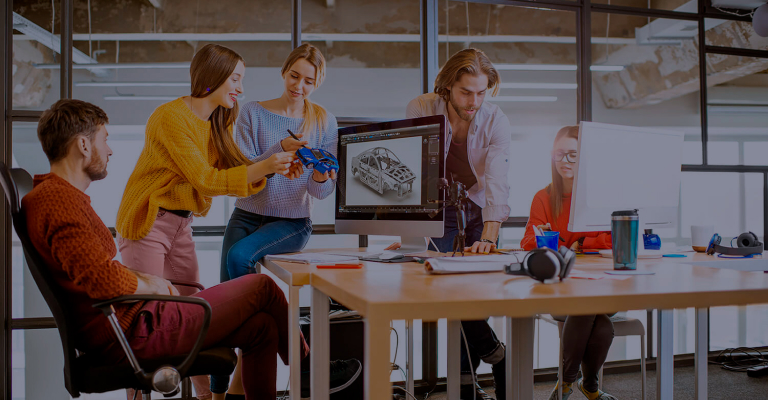
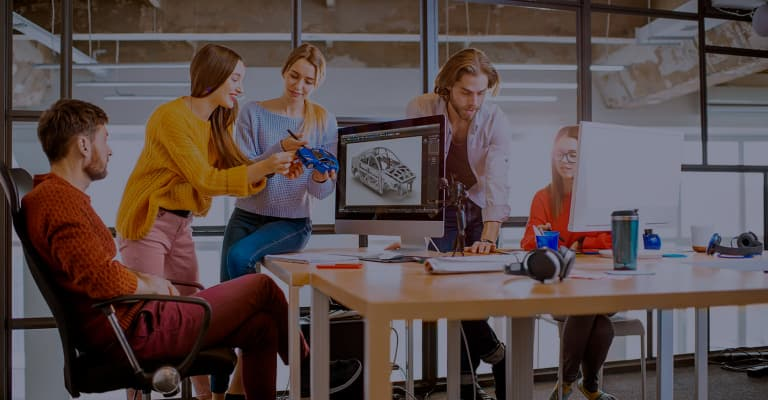
add background

diff --git a/css/main.min.css b/css/main.min.css
@@ -1,1 +1,1 @@
-body{background-color:#fff;color:#212121;font-family:Roboto,sans-serif;font-size:14px;letter-spacing:.03em}a{text-decoration:none;margin:0px}h1,h2,h3,p,img{margin:0;padding:0}img{display:block;height:auto;max-width:100%}@media screen and (min-width: 480px){.container{width:480px}}@media screen and (min-width: 768px){.container{width:768px}}@media screen and (min-width: 1200px){.container{width:1200px;margin:0 auto;padding:0 15px}}.section{padding:94px 0}@media screen and (min-width: 480px){.section{padding:60px 0}}.list{padding:0;margin:0;list-style:none}.title{font-weight:700;font-size:36px;line-height:1.16;text-align:center;margin-bottom:50px}@media screen and (min-width: 480px){.title{font-size:28px;line-height:1.18;margin-bottom:30px}}.visually-hidden{position:absolute;width:1px;height:1px;margin:-1px;padding:0;overflow:hidden;border:0;clip:rect(0 0 0 0)}.header{border-bottom:1px solid #ececec}.header__menu{display:flex;align-items:center;justify-content:space-between;height:80px}.header__nav-item{margin-right:50px}.header__nav-item:last-child{margin-right:0}.header__nav-link{position:relative;display:block;text-decoration:none;color:currentColor;padding:32px 0;transition:color 250ms cubic-bezier(0.4, 0, 0.2, 1);color:#212121;font-weight:500;line-height:1.14}.header__nav-link:hover,.header__nav-link:focus{color:#2196f3;transition:color 250ms cubic-bezier(0.4, 0, 0.2, 1)}.header__nav-link.current{color:#2196f3}.header__nav-link .current::after{content:"";position:absolute;bottom:0;left:0;width:100%;height:4px;background-color:#2196f3;border-radius:2px;opacity:1}@media screen and (min-width: 480px){.header__nav .header__nav{display:none}.header__nav-item{display:none}}@media screen and (min-width: 480px)and (min-width: 768px){.header__nav .header__nav{display:flex;margin-left:93px}.header__nav-item{display:flex}}.header__address-item{margin-right:30px}.header__address-item+.item{margin:0}.header__address-nav{color:#757575;display:flex;align-items:center;font-weight:500;line-height:1.14;transition:color 250ms cubic-bezier(0.4, 0, 0.2, 1)}.header__address-nav:hover,.header__address-nav:focus{color:#2196f3;fill:#2196f3;transition:color 250ms cubic-bezier(0.4, 0, 0.2, 1)}@media screen and (min-width: 480px){.header__address .header__address{display:none}.header__address-item{display:none}}@media screen and (min-width: 768px){.header__address .header__address{display:block;margin-right:0}.header__address-item{display:block;margin-right:0;margin-bottom:10px}.header__address-item:last-child{margin-bottom:0}}@media screen and (min-width: 1200px){.header__address .header__address{display:flex;align-items:center;justify-content:center;margin-left:auto;flex-wrap:nowrap}}.header__item-icon{margin-right:10px;fill:currentColor}.header__item-icon:hover,.header__item-icon:focus{color:#2196f3;fill:#2196f3}.header__item-icon--mail{width:16px;height:12px}.header__item-icon--phone{width:10px;height:16px}.logo{font-family:Raleway,sans-serif;font-weight:700;font-size:26px;line-height:1.19;color:#000}.logo--accent{color:#2196f3}@media screen and (min-width: 480px){.logo .logo{font-size:24px;text-align:center}}@media screen and (min-width: 768px){.logo .logo{text-align:start}.logo--accent{text-align:start}}@media screen and (min-width: 1200px){.logo .logo{text-align:start}}.hero{background-color:#2f303a;text-align:center;padding:200px 0;background-image:linear-gradient(rgba(47, 48, 58, 0.4), rgba(47, 48, 58, 0.4)),url(../images/background-img.jpg);max-width:1600px;margin:0 auto}.hero__button{display:inline-block;background-color:#2196f3;box-shadow:0px 4px 4px rgba(0,0,0,.15);border-radius:4px;font-weight:700;font-size:16px;line-height:1.87;text-align:center;color:#fff;cursor:pointer;letter-spacing:.06em;padding:10px 32px;margin-top:40px;border:none}@media screen and (min-width: 480px){.hero__title{width:100%;font-size:26px;line-height:1.62;padding:0 60px}.hero__button{padding:10px 24px}}@media screen and (min-width: 768px){.hero__title{width:360px;padding:0}.hero .hero{background-image:url("../../images/tablet1x.jpg")}}@media screen and (min-width: 1200px){.hero__title{font-weight:900;font-size:44px;line-height:1.36;letter-spacing:.06em;text-transform:uppercase;color:#fff;width:696px;margin:0 auto}}.benefits{padding:0;margin:0}.benefits__background{width:100%;height:120px;background-color:#f5f4fa;border-radius:4px;display:flex;justify-content:center;align-items:center;margin-bottom:30px}.benefits__sprite{width:70px;height:70px;display:flex;justify-content:center;align-items:center}.benefits__subheader{text-align:left;font-size:inherit;font-weight:700;line-height:1.14;text-transform:uppercase;margin-bottom:10px}.benefits__description{color:#757575;line-height:1.71}@media screen and (min-width: 480px){.benefits__flex{display:block;margin:0;padding-top:60px}.benefits__subheader{text-align:center;margin:0 auto;margin-bottom:10px}.benefits__thesis{width:100%;margin-bottom:30px;margin:0 auto}.benefits__description{margin-bottom:30px}}@media screen and (min-width: 768px){.benefits__flex{display:flex;flex-wrap:wrap;padding-top:60px}.benefits__thesis{width:calc((100% - 30px)/2)}.benefits__thesis:not(:nth-last-child(-n+2)){margin-bottom:30px}.benefits__thesis:not(:nth-child(2n)){margin-right:30px}.benefits__subheader{text-align:start}}@media screen and (min-width: 1200px){.benefits__flex{display:flex;justify-content:space-between;padding-top:60px;padding-bottom:0;flex-wrap:nowrap}.benefits__thesis{width:100%;margin-bottom:0}.benefits__thesis:nth-child(2n){margin-right:30px}.benefits__description{margin-bottom:0}}@media screen and (min-width: 480px){.about-us{display:none}}@media screen and (min-width: 1200px){.about-us{display:block}}.pictures{display:flex;justify-content:space-between}.pictures .item:not(:last-child){margin-right:30px}.pictures__group{position:relative}.pictures__gadget{display:block;max-width:100%;height:auto}.pictures__descr{position:absolute;bottom:0;font-weight:700;font-size:inherit;line-height:1.14;text-align:center;letter-spacing:.03em;text-transform:uppercase;color:#fff;background-color:rgba(47,48,58,.8);height:70px;width:370px;display:flex;justify-content:center;align-items:center}.team{background-color:#f5f4fa}.team__cards{display:flex;justify-content:space-between}.team__card{width:100%;background-color:#fff;box-shadow:0px 1px 3px rgba(0,0,0,.12),0px 1px 1px rgba(0,0,0,.14),0px 2px 1px rgba(0,0,0,.2);border-radius:0px 0px 4px 4px}.team__card:hover{filter:drop-shadow(0px 4px 4px rgba(0, 0, 0, 0.25));transition:filter 250ms cubic-bezier(0.4, 0, 0.2, 1)}.team__info{padding:30px 0}.team__title{font-weight:500;font-size:16px;line-height:1.19;text-align:center;margin-bottom:10px}.team__job-title{font-size:16px;line-height:1.19;text-align:center;color:#757575;margin-bottom:16px}@media screen and (min-width: 480px){.team__cards{display:block}.team__card{margin-bottom:30px}}@media screen and (min-width: 768px){.team__cards{display:flex;flex-wrap:wrap}.team__card{width:calc((100% - 30px)/2)}.team__card:not(:nth-last-child(-n+2)){margin-bottom:30px}.team__card:not(:nth-child(2n)){margin-right:30px}}@media screen and (min-width: 1200px){.team__cards{display:flex;flex-wrap:nowrap}.team__card:nth-child(2n){margin-right:30px}}.social__links{display:flex;justify-content:center;margin:0 auto;padding:0}.social__links .link{display:flex;align-items:center;justify-content:center;width:44px;height:44px;border-radius:50%;background-size:20px;background-repeat:no-repeat;background-position:center}.social__links>li{margin-right:10px}.social__links>li:last-child{margin-right:0px}.social__links .link:hover,.social__links .link:focus{background-color:#2196f3}.social__link-icon{display:inline-block;fill:#afb1b8;width:20px;height:20px;transition:fill 250ms cubic-bezier(0.4, 0, 0.2, 1)}.social__link-icon>.social__link-icon,.social__link-icon>.social__link-icon{fill:#fff}.partners{margin:0;padding:0;display:flex;justify-content:center;flex-wrap:wrap}.partners__image{display:block;margin:0}.partners__link{display:flex;justify-content:center;align-items:center;width:170px;height:92px;border:1px solid #afb1b8;border-radius:4px;transition:border 250ms cubic-bezier(0.4, 0, 0.2, 1);margin-right:0px;padding:0}.partners__link:hover,.partners__link:focus{border:1px solid #2196f3;fill:#2196f3}.partners__link:hover>.partners__logo,.partners__link:focus>.partners__logo{fill:#2196f3}.partners__logo{display:block;fill:#afb1b8;transition:fill 250ms cubic-bezier(0.4, 0, 0.2, 1)}@media screen and (min-width: 480px){.partners__image{width:calc((100% - 30px)/2)}.partners__image:not(:nth-last-child(-n+2)){margin-bottom:30px}.partners__image:nth-child(2n+1){margin-right:30px}}@media screen and (min-width: 768px){.partners__image{width:calc((100% - 60px)/3)}.partners__image:not(:nth-last-child(-n+3)){margin-bottom:30px}.partners__image:not(:nth-child(3n)){margin-right:30px}}@media screen and (min-width: 1200px){.partners__image{width:calc((100% - 150px)/6)}.partners__image:not(:last-child){margin-right:30px}}.footer{background-color:#2f303a;padding:60px 0}.footer__logo{color:#fff}.footer__contacts{margin-top:20px}.footer__contacts-block{margin-right:70px}.footer__form{display:flex;margin-top:20px}.footer__join-block{margin-right:93px}.footer__join-block-title{font-weight:700;line-height:1.14;text-transform:uppercase;letter-spacing:inherit;text-align:left;color:#fff;margin-bottom:0px}@media screen and (min-width: 480px){.footer__flex{display:block;text-align:center}.footer__contacts-block{margin-right:0}.footer__join-block{text-align:center;margin-top:60px;margin-right:0}.footer__join-block-title{text-align:center}.footer__subscribe-block{margin-top:60px}.footer__form{display:block}}@media screen and (min-width: 768px){.footer__tablet{display:flex;align-items:baseline;justify-content:space-around}}@media screen and (min-width: 1200px){.footer__flex{display:flex;align-items:baseline;justify-content:space-between}.footer__tablet{display:flex;justify-content:space-between}.footer__subscribe-block{margin-top:0px}.footer__contacts-block{margin-right:70px}.footer__join-block-title{text-align:start}.footer__form{display:flex;align-items:flex-start;margin-top:20px}}.footer__address{font-style:normal;color:#fff;margin-bottom:9px}.footer__address:hover,.footer__address:focus{color:#2196f3;transition:color 250ms cubic-bezier(0.4, 0, 0.2, 1)}.footer__address-contacts{margin-bottom:9px}.footer__address-contacts--link{color:rgba(255,255,255,.6);font-style:normal;text-decoration:none;line-height:1.71}.footer__address-contacts--link:hover,.footer__address-contacts--link:focus{color:#2196f3;transition:color 250ms cubic-bezier(0.4, 0, 0.2, 1)}@media screen and (min-width: 1200px){.footer__address-contacts{text-align:start}}.footer__links{margin-top:20px}.footer__links .link{background-color:rgba(255,255,255,.1);transition:background-color 250ms cubic-bezier(0.4, 0, 0.2, 1)}.footer__links .social__link-icon{fill:#fff}.footer__input{box-sizing:border-box;width:358px;height:50px;border:1px solid rgba(255,255,255,.3);filter:drop-shadow(0px 4px 4px rgba(0, 0, 0, 0.15));border-radius:4px;background-color:inherit;margin-right:12px;padding:15px;color:#fff}.footer__input:active,.footer__input:focus{border:1px solid #2196f3;outline:none}@media screen and (min-width: 480px){.footer__input{width:100%;margin-bottom:20px}}@media screen and (min-width: 768px){.footer__input{width:450px}}@media screen and (min-width: 1200px){.footer__input{width:358px}}.footer__btn{background-color:#2196f3;font-weight:700;font-size:16px;line-height:1.88;letter-spacing:.06em;color:#fff;padding:10px 28px;box-shadow:0px 4px 4px rgba(0,0,0,.15);border-radius:4px;border:none;min-width:200px;display:flex;align-items:center}.footer__btn-icon{margin-left:10px;width:24px;height:24px}@media screen and (min-width: 480px){.footer__btn .footer__btn{display:block;margin:0 auto}.footer__btn-wrap{display:flex;justify-content:center;align-items:center}}.button__list{display:flex;justify-content:center;margin-bottom:50px}.button__list .item:not(:last-child){margin-right:8px}.button__menu{font-family:inherit;font-weight:500;font-size:16px;line-height:1.63;text-align:center;color:#212121;background-color:#f5f4fa;cursor:pointer;letter-spacing:.03em;border:none;padding:6px 22px;border-radius:4px}.button__menu:hover,.button__menu:focus{background-color:#2196f3;color:#fff;box-shadow:0px 3px 1px rgba(0,0,0,.1),0px 1px 2px rgba(0,0,0,.08),0px 2px 2px rgba(0,0,0,.12);transition:background-color 250ms cubic-bezier(0.4, 0, 0.2, 1);transition:color 250ms cubic-bezier(0.4, 0, 0.2, 1);transition:box-shadow 250ms cubic-bezier(0.4, 0, 0.2, 1)}.card{display:flex;flex-wrap:wrap;justify-content:space-between}.card__header{font-weight:700;font-size:18px;line-height:2;color:#212121;letter-spacing:.06em;margin-bottom:4px}.card__descr{font-size:16px;line-height:1.88;color:#757575;letter-spacing:.03em}.project__card{width:370px;margin-bottom:30px}.project__card:hover,.project__card:focus,.project__card:active{box-shadow:0px 1px 1px rgba(0,0,0,.12),0px 4px 4px rgba(0,0,0,.06),1px 4px 6px rgba(0,0,0,.16)}.project__card:nth-last-child(-n+3){margin-bottom:0}.project__card-thumb{position:relative;display:flex;overflow:hidden}.project__card-overlay{position:absolute;background-color:rgba(33,150,243,.9);width:100%;height:100%;transform:translateY(100%);top:0;left:0;padding:63px 24px;transition:transform 250ms cubic-bezier(0.4, 0, 0.2, 1)}.project__card-overlay--text{font-size:18px;line-height:1.55;letter-spacing:.03em;color:#fff;margin-right:0px;opacity:0}.project__link{display:block}.project__link:hover,.project__link:focus,.project__link:active{box-shadow:0px 1px 1px rgba(0,0,0,.12),0px 4px 4px rgba(0,0,0,.06),1px 4px 6px rgba(0,0,0,.16);transition:box-shadow 250ms cubic-bezier(0.4, 0, 0.2, 1)}.project__link:hover .project__card-overlay,.project__link:focus .project__card-overlay,.project__link:active .project__card-overlay{transform:translateY(0)}.project__link:hover .project__card-overlay--text,.project__link:focus .project__card-overlay--text,.project__link:active .project__card-overlay--text{transform:translateX(0);opacity:1}.project__info{padding:20px 24px;border-left:1px solid #eee;border-right:1px solid #eee;border-bottom:1px solid #eee}.backdrop{position:fixed;top:0;left:0;width:100%;height:100%;background-color:rgba(0,0,0,.2);transition-duration:250ms;transition-timing-function:cubic-bezier(0.4, 0, 0.2, 1)}.backdrop .is-hidden{opacity:0;pointer-events:none;visibility:hidden}.modal{position:relative;z-index:999;top:50%;left:50%;transform:translate(-50%, -50%);min-height:581px;min-width:528px;background-color:#fff;box-shadow:0px 1px 3px rgba(0,0,0,.12),0px 1px 1px rgba(0,0,0,.14),0px 2px 1px rgba(0,0,0,.2);border-radius:4px}.modal__button{position:absolute;top:8px;right:8px;width:30px;height:30px;border-radius:50%;display:flex;justify-content:center;align-items:center;outline:none;border:none;cursor:pointer;background:#fff;border:1px solid rgba(0,0,0,.1)}.modal__accept-terms{margin-top:20px;text-align:center}.modal__send-button{width:200px;height:50px;padding:10px 52px;background-color:#2196f3;border:none;box-shadow:0px 4px 4px rgba(0,0,0,.15);border-radius:4px;font-weight:700;font-size:16px;line-height:1.88;letter-spacing:.06em;color:#fff;margin:0 auto;margin-top:30px;display:flex;justify-content:center;align-items:center}@media screen and (min-width: 480px){.modal .modal{min-width:450px}}.modal__close-btn{border:none;color:#000}.modal__close-btn:hover,.modal__close-btn:focus{fill:#2196f3}.modal__form{padding:40px}.modal__form-header{font-weight:700;font-size:20px;line-height:1.15;text-align:center;letter-spacing:inherit;color:#212121}.modal__form-field{display:block;margin-top:10px}.modal__form:focus-within>.modal__form-input{background-color:blue}.modal__form-field:placeholder-shown+.modal__form-input{transform:translateY(-50px)}.modal__form-textarea{display:block;width:100%;height:120px;padding:12px 16px;font-size:12px;line-height:1.16;letter-spacing:.01em;resize:none;border:1px solid rgba(33,33,33,.2);border-radius:4px;outline:none;margin-top:4px}@media screen and (min-width: 480px){.modal__form .modal__form{width:370px}}.modal__form-label{line-height:1.14;letter-spacing:.01em;color:#757575;outline:none;top:50%;left:40px}.modal__form-label:hover,.modal__form-label:active,.modal__form-label:focus{border-color:#2196f3}.modal__form-image{position:absolute;width:18px;height:18px;top:65%;left:12px;transform:translateY(-50%)}.modal__form-image:hover,.modal__form-image:focus,.modal__form-image:active{fill:#2196f3}.modal__form-input{width:100%;height:40px;border:1px solid rgba(33,33,33,.2);border-radius:4px;outline:none;margin-top:4px;padding-left:35px}.modal__form-input:hover,.modal__form-input:active,.modal__form-input:focus{border-color:#2196f3}.modal__form-input:hover~.modal__form-image,.modal__form-input:active~.modal__form-image,.modal__form-input:focus~.modal__form-image{fill:#2196f3}.modal__form-input-name{font-size:12px;line-height:1.16;letter-spacing:.01em;color:#757575;margin-top:10px;margin-bottom:4px}.checkbox:checked+.checkbox__icon{border-color:#2196f3;background-color:#2196f3;background-image:url(../images/icon-check.svg)}.checkbox__icon{display:inline-block;width:16px;height:15px;border:2px solid #212121;box-shadow:0px 4px 4px rgba(0,0,0,.25);border-radius:2px}.checkbox__accept{line-height:24px;letter-spacing:.03em;color:#757575}.checkbox__link{text-decoration-line:underline;color:#2196f3}.menu-toggle{display:inline-flex;border:none;background-color:rgba(0,0,0,0)}.menu-toggle .icon-cross{display:none}.menu-toggle.is-open .icon-cross{display:block}.menu-toggle.is-open .icon-menu{display:none}@media screen and (min-width: 768px){.menu-toggle{display:none}}/*# sourceMappingURL=main.min.css.map */
+body{background-color:#fff;color:#212121;font-family:Roboto,sans-serif;font-size:14px;letter-spacing:.03em}a{text-decoration:none;margin:0px}h1,h2,h3,p,img{margin:0;padding:0}img{display:block;height:auto;max-width:100%}@media screen and (min-width: 480px){.container{width:480px}}@media screen and (min-width: 768px){.container{width:768px}}@media screen and (min-width: 1200px){.container{width:1200px;margin:0 auto;padding:0 15px}}.section{padding:94px 0}@media screen and (min-width: 480px){.section{padding:60px 0}}.list{padding:0;margin:0;list-style:none}.title{font-weight:700;font-size:36px;line-height:1.16;text-align:center;margin-bottom:50px}@media screen and (min-width: 480px){.title{font-size:28px;line-height:1.18;margin-bottom:30px}}.visually-hidden{position:absolute;width:1px;height:1px;margin:-1px;padding:0;overflow:hidden;border:0;clip:rect(0 0 0 0)}.header{border-bottom:1px solid #ececec}.header__menu{display:flex;align-items:center;justify-content:space-between;height:80px}.header__nav-item{margin-right:50px}.header__nav-item:last-child{margin-right:0}.header__nav-link{position:relative;display:block;text-decoration:none;color:currentColor;padding:32px 0;transition:color 250ms cubic-bezier(0.4, 0, 0.2, 1);color:#212121;font-weight:500;line-height:1.14}.header__nav-link:hover,.header__nav-link:focus{color:#2196f3;transition:color 250ms cubic-bezier(0.4, 0, 0.2, 1)}.header__nav-link.current{color:#2196f3}.header__nav-link .current::after{content:"";position:absolute;bottom:0;left:0;width:100%;height:4px;background-color:#2196f3;border-radius:2px;opacity:1}@media screen and (min-width: 480px){.header__nav .header__nav{display:none}.header__nav-item{display:none}}@media screen and (min-width: 480px)and (min-width: 768px){.header__nav .header__nav{display:flex;margin-left:93px}.header__nav-item{display:flex}}.header__address-item{margin-right:30px}.header__address-item+.item{margin:0}.header__address-nav{color:#757575;display:flex;align-items:center;font-weight:500;line-height:1.14;transition:color 250ms cubic-bezier(0.4, 0, 0.2, 1)}.header__address-nav:hover,.header__address-nav:focus{color:#2196f3;fill:#2196f3;transition:color 250ms cubic-bezier(0.4, 0, 0.2, 1)}@media screen and (min-width: 480px){.header__address .header__address{display:none}.header__address-item{display:none}}@media screen and (min-width: 768px){.header__address .header__address{display:block;margin-right:0}.header__address-item{display:block;margin-right:0;margin-bottom:10px}.header__address-item:last-child{margin-bottom:0}}@media screen and (min-width: 1200px){.header__address .header__address{display:flex;align-items:center;justify-content:center;margin-left:auto;flex-wrap:nowrap}}.header__item-icon{margin-right:10px;fill:currentColor}.header__item-icon:hover,.header__item-icon:focus{color:#2196f3;fill:#2196f3}.header__item-icon--mail{width:16px;height:12px}.header__item-icon--phone{width:10px;height:16px}.logo{font-family:Raleway,sans-serif;font-weight:700;font-size:26px;line-height:1.19;color:#000}.logo--accent{color:#2196f3}@media screen and (min-width: 480px){.logo .logo{font-size:24px;text-align:center}}@media screen and (min-width: 768px){.logo .logo{text-align:start}.logo--accent{text-align:start}}@media screen and (min-width: 1200px){.logo .logo{text-align:start}}.hero{background-color:#2f303a;text-align:center;padding:200px 0;background-image:linear-gradient(rgba(47, 48, 58, 0.4), rgba(47, 48, 58, 0.4)),url(../images/background-img.jpg);max-width:1600px;margin:0 auto}.hero__button{display:inline-block;background-color:#2196f3;box-shadow:0px 4px 4px rgba(0,0,0,.15);border-radius:4px;font-weight:700;font-size:16px;line-height:1.87;text-align:center;color:#fff;cursor:pointer;letter-spacing:.06em;padding:10px 32px;margin-top:40px;border:none}@media screen and (min-width: 480px){.hero__title{width:100%;font-size:26px;line-height:1.62;padding:0 60px}.hero__button{padding:10px 24px}.hero .hero{background-image:linear-gradient(rgba(47, 48, 58, 0.4), rgba(47, 48, 58, 0.4)),url(../../images/mobile1x.jpg)}}@media screen and (min-width: 480px)and (min-device-pixel-ratio: 2),screen and (min-width: 480px)and (min-resolution: 192dpi),screen and (min-width: 480px)and (min-resolution: 2dppx){.hero .hero{background-image:linear-gradient(rgba(47, 48, 58, 0.4), rgba(47, 48, 58, 0.4)),url(../../images/mobile2x.jpg)}}@media screen and (min-width: 768px){.hero__title{width:360px;padding:0}.hero .hero{background-image:linear-gradient(rgba(47, 48, 58, 0.4), rgba(47, 48, 58, 0.4)),url(../../images/tablet1x.jpg)}}@media screen and (min-width: 768px)and (min-device-pixel-ratio: 2),screen and (min-width: 768px)and (min-resolution: 192dpi),screen and (min-width: 768px)and (min-resolution: 2dppx){.hero .hero{background-image:linear-gradient(rgba(47, 48, 58, 0.4), rgba(47, 48, 58, 0.4)),url(../../images/tablet2x.jpg)}}@media screen and (min-width: 1200px){.hero__title{font-weight:900;font-size:44px;line-height:1.36;letter-spacing:.06em;text-transform:uppercase;color:#fff;width:696px;margin:0 auto}.hero .hero{background-image:linear-gradient(rgba(47, 48, 58, 0.4), rgba(47, 48, 58, 0.4)),url(../../images/background-img.jpg)}}@media screen and (min-width: 1200px)and (min-device-pixel-ratio: 2),screen and (min-width: 1200px)and (min-resolution: 192dpi),screen and (min-width: 1200px)and (min-resolution: 2dppx){.hero .hero{background-image:linear-gradient(rgba(47, 48, 58, 0.4), rgba(47, 48, 58, 0.4)),url(../../images/background-img2x.jpg)}}.benefits{padding:0;margin:0}.benefits__background{width:100%;height:120px;background-color:#f5f4fa;border-radius:4px;display:flex;justify-content:center;align-items:center;margin-bottom:30px}.benefits__sprite{width:70px;height:70px;display:flex;justify-content:center;align-items:center}.benefits__subheader{text-align:left;font-size:inherit;font-weight:700;line-height:1.14;text-transform:uppercase;margin-bottom:10px}.benefits__description{color:#757575;line-height:1.71}@media screen and (min-width: 480px){.benefits__flex{display:block;margin:0;padding-top:60px}.benefits__subheader{text-align:center;margin:0 auto;margin-bottom:10px}.benefits__thesis{width:100%;margin-bottom:30px;margin:0 auto}.benefits__description{margin-bottom:30px}}@media screen and (min-width: 768px){.benefits__flex{display:flex;flex-wrap:wrap;padding-top:60px}.benefits__thesis{width:calc((100% - 30px)/2)}.benefits__thesis:not(:nth-last-child(-n+2)){margin-bottom:30px}.benefits__thesis:not(:nth-child(2n)){margin-right:30px}.benefits__subheader{text-align:start}}@media screen and (min-width: 1200px){.benefits__flex{display:flex;justify-content:space-between;padding-top:60px;padding-bottom:0;flex-wrap:nowrap}.benefits__thesis{width:100%;margin-bottom:0}.benefits__thesis:nth-child(2n){margin-right:30px}.benefits__description{margin-bottom:0}}@media screen and (min-width: 480px){.about-us{display:none}}@media screen and (min-width: 1200px){.about-us{display:block}}.pictures{display:flex;justify-content:space-between}.pictures .item:not(:last-child){margin-right:30px}.pictures__group{position:relative}.pictures__gadget{display:block;max-width:100%;height:auto}.pictures__descr{position:absolute;bottom:0;font-weight:700;font-size:inherit;line-height:1.14;text-align:center;letter-spacing:.03em;text-transform:uppercase;color:#fff;background-color:rgba(47,48,58,.8);height:70px;width:370px;display:flex;justify-content:center;align-items:center}.team{background-color:#f5f4fa}.team__cards{display:flex;justify-content:space-between}.team__card{width:100%;background-color:#fff;box-shadow:0px 1px 3px rgba(0,0,0,.12),0px 1px 1px rgba(0,0,0,.14),0px 2px 1px rgba(0,0,0,.2);border-radius:0px 0px 4px 4px}.team__card:hover{filter:drop-shadow(0px 4px 4px rgba(0, 0, 0, 0.25));transition:filter 250ms cubic-bezier(0.4, 0, 0.2, 1)}.team__info{padding:30px 0}.team__title{font-weight:500;font-size:16px;line-height:1.19;text-align:center;margin-bottom:10px}.team__job-title{font-size:16px;line-height:1.19;text-align:center;color:#757575;margin-bottom:16px}@media screen and (min-width: 480px){.team__cards{display:block}.team__card{margin-bottom:30px}}@media screen and (min-width: 768px){.team__cards{display:flex;flex-wrap:wrap}.team__card{width:calc((100% - 30px)/2)}.team__card:not(:nth-last-child(-n+2)){margin-bottom:30px}.team__card:not(:nth-child(2n)){margin-right:30px}}@media screen and (min-width: 1200px){.team__cards{display:flex;flex-wrap:nowrap}.team__card:nth-child(2n){margin-right:30px}}.social__links{display:flex;justify-content:center;margin:0 auto;padding:0}.social__links .link{display:flex;align-items:center;justify-content:center;width:44px;height:44px;border-radius:50%;background-size:20px;background-repeat:no-repeat;background-position:center}.social__links>li{margin-right:10px}.social__links>li:last-child{margin-right:0px}.social__links .link:hover,.social__links .link:focus{background-color:#2196f3}.social__link-icon{display:inline-block;fill:#afb1b8;width:20px;height:20px;transition:fill 250ms cubic-bezier(0.4, 0, 0.2, 1)}.social__link-icon>.social__link-icon,.social__link-icon>.social__link-icon{fill:#fff}.partners{margin:0;padding:0;display:flex;justify-content:center;flex-wrap:wrap}.partners__image{display:block;margin:0}.partners__link{display:flex;justify-content:center;align-items:center;width:170px;height:92px;border:1px solid #afb1b8;border-radius:4px;transition:border 250ms cubic-bezier(0.4, 0, 0.2, 1);margin-right:0px;padding:0}.partners__link:hover,.partners__link:focus{border:1px solid #2196f3;fill:#2196f3}.partners__link:hover>.partners__logo,.partners__link:focus>.partners__logo{fill:#2196f3}.partners__logo{display:block;fill:#afb1b8;transition:fill 250ms cubic-bezier(0.4, 0, 0.2, 1)}@media screen and (min-width: 480px){.partners__image{width:calc((100% - 30px)/2)}.partners__image:not(:nth-last-child(-n+2)){margin-bottom:30px}.partners__image:nth-child(2n+1){margin-right:30px}}@media screen and (min-width: 768px){.partners__image{width:calc((100% - 60px)/3)}.partners__image:not(:nth-last-child(-n+3)){margin-bottom:30px}.partners__image:not(:nth-child(3n)){margin-right:30px}}@media screen and (min-width: 1200px){.partners__image{width:calc((100% - 150px)/6)}.partners__image:not(:last-child){margin-right:30px}}.footer{background-color:#2f303a;padding:60px 0}.footer__logo{color:#fff}.footer__contacts{margin-top:20px}.footer__contacts-block{margin-right:70px}.footer__form{display:flex;margin-top:20px}.footer__join-block{margin-right:93px}.footer__join-block-title{font-weight:700;line-height:1.14;text-transform:uppercase;letter-spacing:inherit;text-align:left;color:#fff;margin-bottom:0px}@media screen and (min-width: 480px){.footer__flex{display:block;text-align:center}.footer__contacts-block{margin-right:0}.footer__join-block{text-align:center;margin-top:60px;margin-right:0}.footer__join-block-title{text-align:center}.footer__subscribe-block{margin-top:60px}.footer__form{display:block}}@media screen and (min-width: 768px){.footer__tablet{display:flex;align-items:baseline;justify-content:space-around}}@media screen and (min-width: 1200px){.footer__flex{display:flex;align-items:baseline;justify-content:space-between}.footer__tablet{display:flex;justify-content:space-between}.footer__subscribe-block{margin-top:0px}.footer__contacts-block{margin-right:70px}.footer__join-block-title{text-align:start}.footer__form{display:flex;align-items:flex-start;margin-top:20px}}.footer__address{font-style:normal;color:#fff;margin-bottom:9px}.footer__address:hover,.footer__address:focus{color:#2196f3;transition:color 250ms cubic-bezier(0.4, 0, 0.2, 1)}.footer__address-contacts{margin-bottom:9px}.footer__address-contacts--link{color:rgba(255,255,255,.6);font-style:normal;text-decoration:none;line-height:1.71}.footer__address-contacts--link:hover,.footer__address-contacts--link:focus{color:#2196f3;transition:color 250ms cubic-bezier(0.4, 0, 0.2, 1)}@media screen and (min-width: 1200px){.footer__address-contacts{text-align:start}}.footer__links{margin-top:20px}.footer__links .link{background-color:rgba(255,255,255,.1);transition:background-color 250ms cubic-bezier(0.4, 0, 0.2, 1)}.footer__links .social__link-icon{fill:#fff}.footer__input{box-sizing:border-box;width:358px;height:50px;border:1px solid rgba(255,255,255,.3);filter:drop-shadow(0px 4px 4px rgba(0, 0, 0, 0.15));border-radius:4px;background-color:inherit;margin-right:12px;padding:15px;color:#fff}.footer__input:active,.footer__input:focus{border:1px solid #2196f3;outline:none}@media screen and (min-width: 480px){.footer__input{width:100%;margin-bottom:20px}}@media screen and (min-width: 768px){.footer__input{width:450px}}@media screen and (min-width: 1200px){.footer__input{width:358px}}.footer__btn{background-color:#2196f3;font-weight:700;font-size:16px;line-height:1.88;letter-spacing:.06em;color:#fff;padding:10px 28px;box-shadow:0px 4px 4px rgba(0,0,0,.15);border-radius:4px;border:none;min-width:200px;display:flex;align-items:center}.footer__btn-icon{margin-left:10px;width:24px;height:24px}@media screen and (min-width: 480px){.footer__btn .footer__btn{display:block;margin:0 auto}.footer__btn-wrap{display:flex;justify-content:center;align-items:center}}.button__list{display:flex;justify-content:center;margin-bottom:50px}.button__list .item:not(:last-child){margin-right:8px}.button__menu{font-family:inherit;font-weight:500;font-size:16px;line-height:1.63;text-align:center;color:#212121;background-color:#f5f4fa;cursor:pointer;letter-spacing:.03em;border:none;padding:6px 22px;border-radius:4px}.button__menu:hover,.button__menu:focus{background-color:#2196f3;color:#fff;box-shadow:0px 3px 1px rgba(0,0,0,.1),0px 1px 2px rgba(0,0,0,.08),0px 2px 2px rgba(0,0,0,.12);transition:background-color 250ms cubic-bezier(0.4, 0, 0.2, 1);transition:color 250ms cubic-bezier(0.4, 0, 0.2, 1);transition:box-shadow 250ms cubic-bezier(0.4, 0, 0.2, 1)}.card{display:flex;flex-wrap:wrap;justify-content:space-between}.card__header{font-weight:700;font-size:18px;line-height:2;color:#212121;letter-spacing:.06em;margin-bottom:4px}.card__descr{font-size:16px;line-height:1.88;color:#757575;letter-spacing:.03em}.project__card{width:370px;margin-bottom:30px}.project__card:hover,.project__card:focus,.project__card:active{box-shadow:0px 1px 1px rgba(0,0,0,.12),0px 4px 4px rgba(0,0,0,.06),1px 4px 6px rgba(0,0,0,.16)}.project__card:nth-last-child(-n+3){margin-bottom:0}.project__card-thumb{position:relative;display:flex;overflow:hidden}.project__card-overlay{position:absolute;background-color:rgba(33,150,243,.9);width:100%;height:100%;transform:translateY(100%);top:0;left:0;padding:63px 24px;transition:transform 250ms cubic-bezier(0.4, 0, 0.2, 1)}.project__card-overlay--text{font-size:18px;line-height:1.55;letter-spacing:.03em;color:#fff;margin-right:0px;opacity:0}.project__link{display:block}.project__link:hover,.project__link:focus,.project__link:active{box-shadow:0px 1px 1px rgba(0,0,0,.12),0px 4px 4px rgba(0,0,0,.06),1px 4px 6px rgba(0,0,0,.16);transition:box-shadow 250ms cubic-bezier(0.4, 0, 0.2, 1)}.project__link:hover .project__card-overlay,.project__link:focus .project__card-overlay,.project__link:active .project__card-overlay{transform:translateY(0)}.project__link:hover .project__card-overlay--text,.project__link:focus .project__card-overlay--text,.project__link:active .project__card-overlay--text{transform:translateX(0);opacity:1}.project__info{padding:20px 24px;border-left:1px solid #eee;border-right:1px solid #eee;border-bottom:1px solid #eee}.backdrop{position:fixed;top:0;left:0;width:100%;height:100%;background-color:rgba(0,0,0,.2);transition-duration:250ms;transition-timing-function:cubic-bezier(0.4, 0, 0.2, 1)}.backdrop .is-hidden{opacity:0;pointer-events:none;visibility:hidden}.modal{position:relative;z-index:999;top:50%;left:50%;transform:translate(-50%, -50%);width:100%;background-color:#fff;box-shadow:0px 1px 3px rgba(0,0,0,.12),0px 1px 1px rgba(0,0,0,.14),0px 2px 1px rgba(0,0,0,.2);border-radius:4px}.modal__button{position:absolute;top:8px;right:8px;width:30px;height:30px;border-radius:50%;display:flex;justify-content:center;align-items:center;outline:none;border:none;cursor:pointer;background:#fff;border:1px solid rgba(0,0,0,.1)}.modal__accept-terms{margin-top:20px;text-align:center}.modal__send-button{width:200px;height:50px;padding:10px 52px;background-color:#2196f3;border:none;box-shadow:0px 4px 4px rgba(0,0,0,.15);border-radius:4px;font-weight:700;font-size:16px;line-height:1.88;letter-spacing:.06em;color:#fff;margin:0 auto;margin-top:30px;display:flex;justify-content:center;align-items:center}@media screen and (min-width: 480px){.modal .modal{width:450px;height:609px}}@media screen and (min-width: 1200px){.modal .modal{height:581px;width:528px}}.modal__close-btn{border:none;color:#000}.modal__close-btn:hover,.modal__close-btn:focus{fill:#2196f3}.modal__form{padding:40px;width:100%}.modal__form-header{font-weight:700;font-size:20px;line-height:1.15;text-align:center;letter-spacing:inherit;color:#212121}.modal__form-field{display:block;margin-top:10px}.modal__form:focus-within>.modal__form-input{background-color:blue}.modal__form-field:placeholder-shown+.modal__form-input{transform:translateY(-50px)}.modal__form-textarea{display:block;width:100%;height:120px;padding:12px 16px;font-size:12px;line-height:1.16;letter-spacing:.01em;resize:none;border:1px solid rgba(33,33,33,.2);border-radius:4px;outline:none;margin-top:4px}@media screen and (min-width: 480px){.modal__form .modal__form{width:80%}}.modal__form-label{line-height:1.14;letter-spacing:.01em;color:#757575;outline:none;top:50%;left:40px}.modal__form-label:hover,.modal__form-label:active,.modal__form-label:focus{border-color:#2196f3}.modal__form-image{position:absolute;width:18px;height:18px;top:65%;left:12px;transform:translateY(-50%)}.modal__form-image:hover,.modal__form-image:focus,.modal__form-image:active{fill:#2196f3}.modal__form-input{width:100%;height:40px;border:1px solid rgba(33,33,33,.2);border-radius:4px;outline:none;margin-top:4px;padding-left:35px}.modal__form-input:hover,.modal__form-input:active,.modal__form-input:focus{border-color:#2196f3}.modal__form-input:hover~.modal__form-image,.modal__form-input:active~.modal__form-image,.modal__form-input:focus~.modal__form-image{fill:#2196f3}.modal__form-input-name{font-size:12px;line-height:1.16;letter-spacing:.01em;color:#757575;margin-top:10px;margin-bottom:4px}@media screen and (min-width: 480px){.modal__form-input .modal__form-input{width:90%}}@media screen and (min-width: 1200px){.modal__form-input{width:448px}}.checkbox:checked+.checkbox__icon{border-color:#2196f3;background-color:#2196f3;background-image:url(../images/icon-check.svg)}.checkbox__icon{display:inline-block;width:16px;height:15px;border:2px solid #212121;box-shadow:0px 4px 4px rgba(0,0,0,.25);border-radius:2px}.checkbox__accept{line-height:24px;letter-spacing:.03em;color:#757575}.checkbox__link{text-decoration-line:underline;color:#2196f3}@media screen and (min-width: 480px){.checkbox__accept{font-size:12px}.checkbox__link{font-size:12px}}.menu-toggle{display:inline-flex;border:none;background-color:rgba(0,0,0,0)}.menu-toggle .icon-cross{display:none}.menu-toggle.is-open .icon-cross{display:block}.menu-toggle.is-open .icon-menu{display:none}@media screen and (min-width: 768px){.menu-toggle{display:none}}/*# sourceMappingURL=main.min.css.map */

diff --git a/css/main.css b/css/main.css
@@ -279,24 +279,27 @@ img {
   .hero__button {
     padding: 10px 24px;
   }
+  .hero .hero {
+    background-image: linear-gradient(rgba(47, 48, 58, 0.4), rgba(47, 48, 58, 0.4)), url(../../images/mobile1x.jpg);
+  }
+}
+@media screen and (min-width: 480px) and (min-device-pixel-ratio: 2), screen and (min-width: 480px) and (min-resolution: 192dpi), screen and (min-width: 480px) and (min-resolution: 2dppx) {
+  .hero .hero {
+    background-image: linear-gradient(rgba(47, 48, 58, 0.4), rgba(47, 48, 58, 0.4)), url(../../images/mobile2x.jpg);
+  }
 }
 @media screen and (min-width: 768px) {
-  .hero {
-    /*
-    (min-device-pixel-ratio: 2),
-    (min-resolution: 192dpi),
-    (min-resolution: 2dppx) {
-    .hero {
-        background-image: url('../../images/tablet2x.jpg');
-    }
-    }}*/
-  }
   .hero__title {
     width: 360px;
     padding: 0;
   }
   .hero .hero {
-    background-image: url("../../images/tablet1x.jpg");
+    background-image: linear-gradient(rgba(47, 48, 58, 0.4), rgba(47, 48, 58, 0.4)), url(../../images/tablet1x.jpg);
+  }
+}
+@media screen and (min-width: 768px) and (min-device-pixel-ratio: 2), screen and (min-width: 768px) and (min-resolution: 192dpi), screen and (min-width: 768px) and (min-resolution: 2dppx) {
+  .hero .hero {
+    background-image: linear-gradient(rgba(47, 48, 58, 0.4), rgba(47, 48, 58, 0.4)), url(../../images/tablet2x.jpg);
   }
 }
 @media screen and (min-width: 1200px) {
@@ -309,6 +312,14 @@ img {
     color: #FFFFFF;
     width: 696px;
     margin: 0 auto;
+  }
+  .hero .hero {
+    background-image: linear-gradient(rgba(47, 48, 58, 0.4), rgba(47, 48, 58, 0.4)), url(../../images/background-img.jpg);
+  }
+}
+@media screen and (min-width: 1200px) and (min-device-pixel-ratio: 2), screen and (min-width: 1200px) and (min-resolution: 192dpi), screen and (min-width: 1200px) and (min-resolution: 2dppx) {
+  .hero .hero {
+    background-image: linear-gradient(rgba(47, 48, 58, 0.4), rgba(47, 48, 58, 0.4)), url(../../images/background-img2x.jpg);
   }
 }
 
@@ -1036,8 +1047,7 @@ img {
   top: 50%;
   left: 50%;
   transform: translate(-50%, -50%);
-  min-height: 581px;
-  min-width: 528px;
+  width: 100%;
   background-color: #fff;
   box-shadow: 0px 1px 3px rgba(0, 0, 0, 0.12), 0px 1px 1px rgba(0, 0, 0, 0.14), 0px 2px 1px rgba(0, 0, 0, 0.2);
   border-radius: 4px;
@@ -1083,7 +1093,14 @@ img {
 }
 @media screen and (min-width: 480px) {
   .modal .modal {
-    min-width: 450px;
+    width: 450px;
+    height: 609px;
+  }
+}
+@media screen and (min-width: 1200px) {
+  .modal .modal {
+    height: 581px;
+    width: 528px;
   }
 }
 
@@ -1097,6 +1114,7 @@ img {
 
 .modal__form {
   padding: 40px;
+  width: 100%;
 }
 .modal__form-header {
   font-weight: 700;
@@ -1133,7 +1151,8 @@ img {
 }
 @media screen and (min-width: 480px) {
   .modal__form .modal__form {
-    width: 370px;
+    /*width: 370px;*/
+    width: 80%;
   }
 }
 
@@ -1184,6 +1203,17 @@ img {
   margin-top: 10px;
   margin-bottom: 4px;
 }
+@media screen and (min-width: 480px) {
+  .modal__form-input .modal__form-input {
+    /*width: 370px;*/
+    width: 90%;
+  }
+}
+@media screen and (min-width: 1200px) {
+  .modal__form-input {
+    width: 448px;
+  }
+}
 
 .checkbox:checked + .checkbox__icon {
   border-color: #2196F3;
@@ -1206,6 +1236,14 @@ img {
 .checkbox__link {
   text-decoration-line: underline;
   color: #2196F3;
+}
+@media screen and (min-width: 480px) {
+  .checkbox__accept {
+    font-size: 12px;
+  }
+  .checkbox__link {
+    font-size: 12px;
+  }
 }
 
 .menu-toggle {

diff --git a/sass/components/_hero-section.scss b/sass/components/_hero-section.scss
@@ -2,11 +2,10 @@
     background-color: $background-footer;
     text-align: center;
     padding: 200px 0;
-    background-image: linear-gradient(rgba(47, 48, 58, 0.4), rgba(47, 48, 58, 0.4)), url(../images/background-img.jpg);
+    background-image: linear-gradient(rgba(47, 48, 58, 0.4), rgba(47, 48, 58, 0.4)), 
+    url(../images/background-img.jpg);
     max-width: 1600px;
     margin: 0 auto;
-
-    
 
     &__button {
         display: inline-block;
@@ -36,6 +35,17 @@
         &__button {
             padding: 10px 24px;
         }
+
+        .hero {
+            background-image: linear-gradient(rgba(47, 48, 58, 0.4), rgba(47, 48, 58, 0.4)), 
+            url(../../images/mobile1x.jpg);
+            @media (min-device-pixel-ratio: 2),
+            (min-resolution: 192dpi),
+            (min-resolution: 2dppx) {
+                background-image: linear-gradient(rgba(47, 48, 58, 0.4), rgba(47, 48, 58, 0.4)), 
+                url(../../images/mobile2x.jpg);
+            }
+        }
     }
 
     @media screen and (min-width: 768px) {
@@ -45,17 +55,15 @@
 
         }
         .hero {
-            background-image: url('../../images/tablet1x.jpg');
+            background-image: linear-gradient(rgba(47, 48, 58, 0.4), rgba(47, 48, 58, 0.4)), 
+            url(../../images/tablet1x.jpg);
+            @media (min-device-pixel-ratio: 2),
+            (min-resolution: 192dpi),
+            (min-resolution: 2dppx) {
+                background-image: linear-gradient(rgba(47, 48, 58, 0.4), rgba(47, 48, 58, 0.4)), 
+                url(../../images/tablet2x.jpg);
+            }
         }
-        
-        /*
-        (min-device-pixel-ratio: 2),
-        (min-resolution: 192dpi),
-        (min-resolution: 2dppx) {
-        .hero {
-            background-image: url('../../images/tablet2x.jpg');
-        }
-        }}*/
     }
 
     @media screen and (min-width: 1200px) {
@@ -69,6 +77,19 @@
             width: 696px;
             margin: 0 auto;
         }
+
+        .hero {
+            background-image: linear-gradient(rgba(47, 48, 58, 0.4), rgba(47, 48, 58, 0.4)), 
+            url(../../images/background-img.jpg);
+            @media (min-device-pixel-ratio: 2),
+            (min-resolution: 192dpi),
+            (min-resolution: 2dppx) {
+                background-image: linear-gradient(rgba(47, 48, 58, 0.4), rgba(47, 48, 58, 0.4)), 
+                url(../../images/background-img2x.jpg);
+            }
+        }
+
+
     }
 }
 

diff --git a/sass/components/_modal-window.scss b/sass/components/_modal-window.scss
@@ -21,8 +21,7 @@
     top: 50%;
     left: 50%;
     transform: translate(-50%, -50%);
-    min-height: 581px;
-    min-width: 528px;
+    width: 100%;
     background-color: $primary-background-color;
     box-shadow: 0px 1px 3px rgba(0, 0, 0, 0.12), 0px 1px 1px rgba(0, 0, 0, 0.14), 0px 2px 1px rgba(0, 0, 0, 0.2);
     border-radius: 4px;
@@ -71,13 +70,20 @@
 
     @media screen and (min-width: 480px) {
         .modal {
-            min-width: 450px;
+            width: 450px;
+            height: 609px;
         }
+    }
 
-        &__button {
-
+    @media screen and (min-width: 1200px) {
+        .modal {
+            height: 581px;
+            width: 528px;
         }
-    };
+    }
+
+
+    
 }
 
 .modal__close-btn {
@@ -92,6 +98,7 @@
 
 .modal__form {
     padding: 40px;
+    width: 100%;
 
     &-header {
         font-weight: 700;
@@ -133,7 +140,8 @@
 
     @media screen and (min-width: 480px) {
         .modal__form {
-            width: 370px;
+            /*width: 370px;*/
+            width: 80%;
         }
         
     };
@@ -187,7 +195,7 @@
     &:hover ~ .modal__form-image,
     &:active ~ .modal__form-image,
     &:focus ~ .modal__form-image {
-    fill: $accent-color;
+        fill: $accent-color;
     }
 
     &-name {
@@ -199,7 +207,21 @@
         margin-bottom: 4px;
     }
 
-    
+    @media screen and (min-width: 480px) {
+        .modal__form-input {
+            /*width: 370px;*/
+            width: 90%;
+        }
+    }
+
+    @media screen and (min-width: 768px) {
+        
+    }
+
+    @media screen and (min-width: 1200px) {
+        width: 448px;
+    }
+
 }
 
 .checkbox {
@@ -228,6 +250,17 @@
         text-decoration-line: underline;
         color: $accent-color;
     }
+
+    @media screen and (min-width: 480px) {
+        &__accept {
+            font-size: 12px;
+        }
+
+        &__link {
+            font-size: 12px;
+        }
+    }
+
 }
 
 

diff --git a/js/mobile-menu.js b/js/mobile-menu.js
@@ -30,18 +30,17 @@
 */
 
 
-  (() => {
-    const refs = {
-      openModalBtn: document.querySelector("[data-modal-open]"),
-      closeModalBtn: document.querySelector("[data-modal-close]"),
-      modal: document.querySelector("[data-modal]"),
-    };
-  
-    refs.openModalBtn.addEventListener("click", toggleModal);
-    refs.closeModalBtn.addEventListener("click", toggleModal);
-  
-    function toggleModal() {
-      document.body.classList.toggle("modal-open");
-      refs.modal.classList.toggle("is-hidden");
-    }
-  })();
+(() => {
+  const menuBtnRef = document.querySelector("[data-menu-button]");
+  const mobileMenuRef = document.querySelector("[data-menu]");
+
+  menuBtnRef.addEventListener("click", () => {
+    const expanded =
+      menuBtnRef.getAttribute("aria-expanded") === "true" || false;
+
+    menuBtnRef.classList.toggle("is-open");
+    menuBtnRef.setAttribute("aria-expanded", !expanded);
+
+    mobileMenuRef.classList.toggle("is-open");
+  });
+})();
